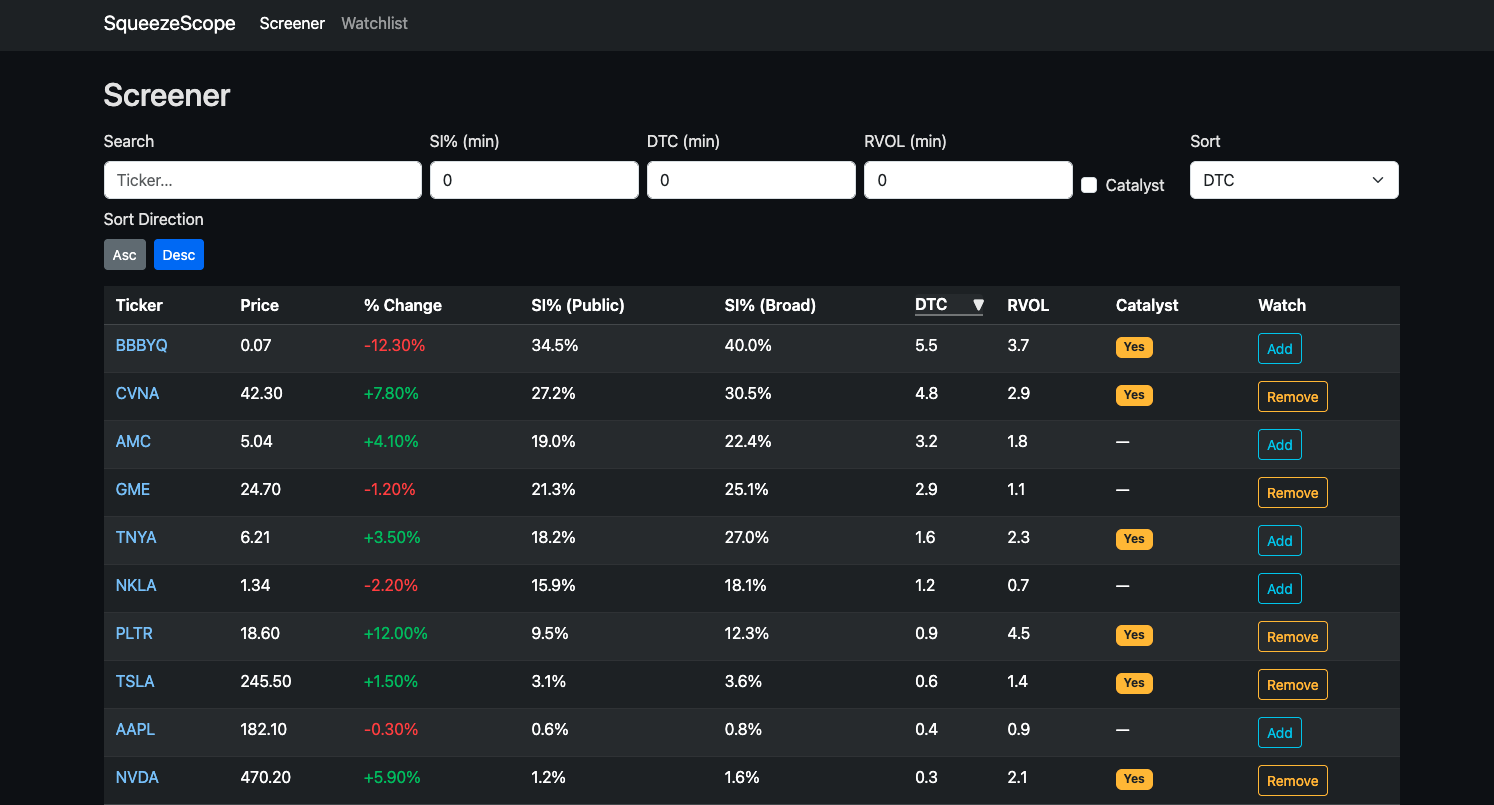
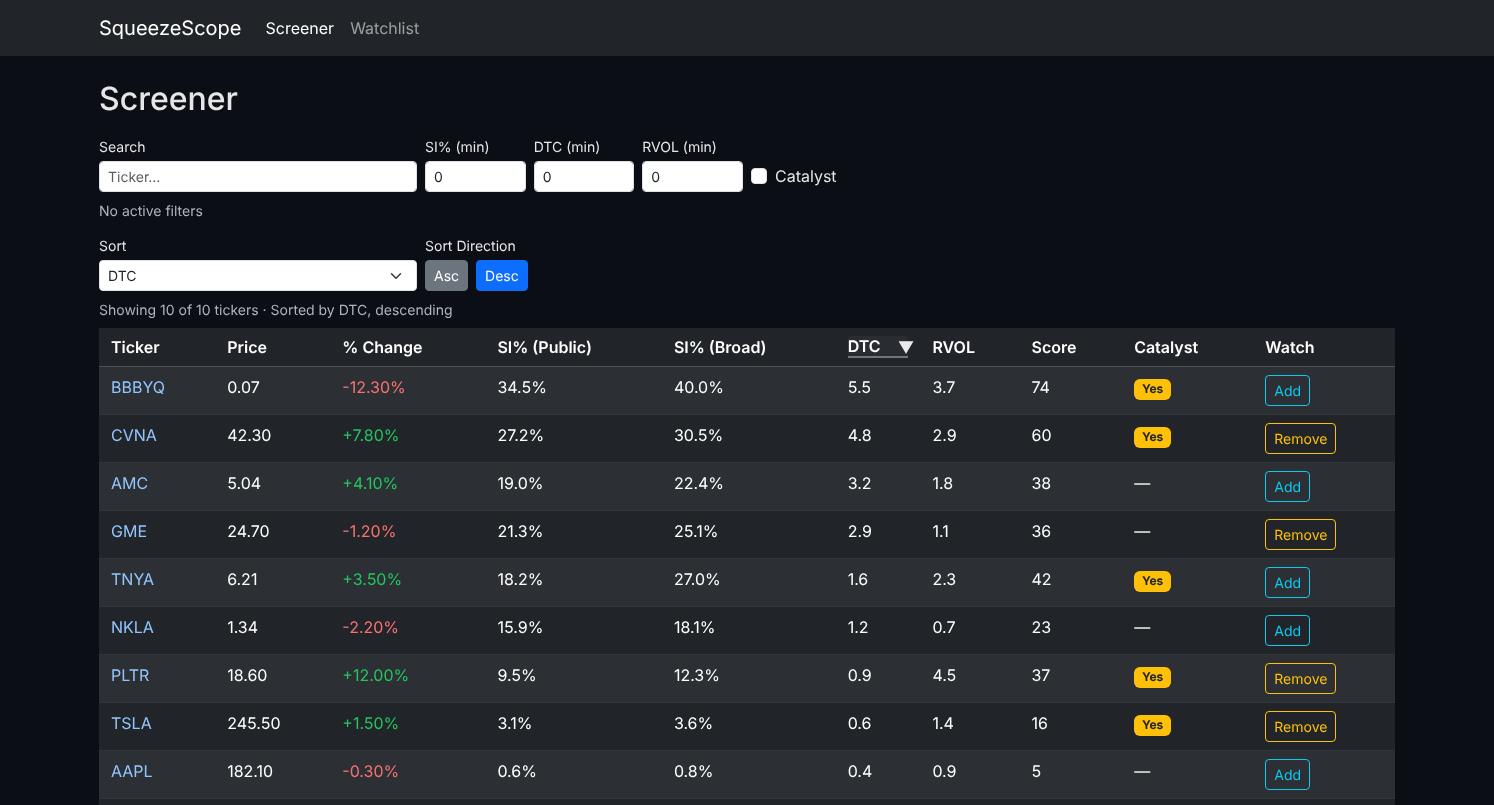
docs(readme): align README claims with the code (#62)
* docs(readme): align README claims with the code

Corrections, each checked against the source:
- SI filter applies to public float only (filter.ts uses siPublic);
  broad float is shown and sortable, not filterable.
- Table headers are sortable, not sticky (no position: sticky rule).
- Detail chart plots price only; fixture series are short, and only
  tickers without fixture metrics get a synthesized 60-day series.
- Detail RVOL is the 30-day value.
- URL sync covers sort/dir too and falls back to defaults on invalid
  params (#50).
- CI and tech stack list the current gates: lint, strict typecheck,
  unit tests, build, axe checks (#49, #51).
- Node requirement matches Vite 7 engines (^20.19 || >=22.12).
- Quality checks list the scripts that exist, note that `npm test` is
  watch mode, and the one-time Playwright browser install.
- Project structure adds pages/, components/, __tests__/, fixtures.ts,
  pageHeadings.test.tsx and e2e/.
- Screenshots regenerated from the production build at the original
  sizes (toolbar chips/summary from #48, contrast changes from #51).

Alternative rejected: making headers sticky to match the old claim
(feature change, out of scope for a docs fix).

Verified: every listed command run locally (lint, typecheck, test:run,
build, test:a11y, preview) succeeds.

Closes #54

Claude-Session: https://claude.ai/code/session_01LXBuSL63u9a8cxMp92HKF4

* docs(readme): state which detail metrics are fixed vs generated
[…]

diff --git a/README.md b/README.md
@@ -6,7 +6,7 @@
 
 SqueezeScope is a stock screener for identifying potential short squeeze candidates using common indicators such as short interest (SI%, public and broad float), days to cover (DTC), relative volume (RVOL), and catalyst flags. It also includes a demo "squeeze score" (a lightweight heuristic for UX demonstration, not a validated trading model). The app is built with production-minded frontend practices (typed domain models, URL-synced filters, and a centralized data client) and uses static fixtures in production while exercising an MSW-backed API layer in development.
 
-> Note: The live demo uses **static fixture data** for deterministic, repeatable behavior (no real-time market data).
+> Note: The live demo uses **static fixture data** (no real-time market data). Screener and watchlist rows are fixed; ticker detail metrics are fixed for TNYA, GME, AMC, CVNA and PLTR and randomly generated on each load for any other symbol.
 
 ---
 
@@ -19,7 +19,7 @@ SqueezeScope is a stock screener for identifying potential short squeeze candida
 - Watchlist persistence via `localStorage` with a small tested hook
 - Accessibility-minded UX (semantic landmarks, focus management, keyboard-friendly flows)
 - Resilient UX: error boundary, empty states, and a first-class 404 flow
-- CI quality gates via GitHub Actions (lint, tests, build)
+- CI quality gates via GitHub Actions (lint, strict typecheck, unit tests, build, axe accessibility checks)
 
 ---
 
@@ -29,14 +29,14 @@ SqueezeScope is a stock screener for identifying potential short squeeze candida
 
 - Filter by:
   - Ticker search
-  - Minimum short interest (public and broad float)
+  - Minimum short interest (public float; broad float is shown and sortable but not filterable)
   - Days to cover (short ratio)
   - Relative volume
   - Catalyst flag
 - Active filter chips: one-click removal per filter, plus "Clear all"
 - Summary strip: result count, current sort and direction, active filter count
-- Sortable table with sticky headers
-- Filter state is synced to the URL (shareable views)
+- Sortable table: click a column header to sort, click again to reverse
+- Filter and sort state is synced to the URL (shareable views); invalid or out-of-range params fall back to defaults
 
 ### Watchlist
 
@@ -49,9 +49,9 @@ SqueezeScope is a stock screener for identifying potential short squeeze candida
 - Summary strip with:
   - Short interest (public and broad float)
   - Days to cover (DTC)
-  - Relative volume (RVOL)
+  - Relative volume (30-day RVOL)
   - Squeeze score (demo)
-- 60-day price/volume chart via Recharts
+- Price chart via Recharts: fixture tickers (TNYA, GME, AMC, CVNA, PLTR) show a short fixture series; any other symbol gets randomly generated metrics and a 60-day series
 - Watchlist toggle integrated into the detail view
 
 ### Reliability UX
@@ -72,8 +72,8 @@ SqueezeScope is a stock screener for identifying potential short squeeze candida
 - **Charts:** Recharts 3
 - **Mock API (dev):** MSW 2
 - **HTTP client:** Axios
-- **Testing:** Vitest, Testing Library, jest-dom
-- **CI:** GitHub Actions (lint, tests, build on PRs)
+- **Testing:** Vitest, Testing Library, jest-dom; Playwright + axe-core for accessibility checks
+- **CI:** GitHub Actions (lint, typecheck, unit tests, build, axe checks on PRs and pushes to `main`)
 
 ---
 
@@ -100,7 +100,7 @@ SqueezeScope is a stock screener for identifying potential short squeeze candida
 
 ### Prerequisites
 
-- Node 20+ recommended
+- Node 20.19+, 22.12+ or 24+ (required by Vite 7 and jsdom 27; CI uses Node 22)
 - npm (bundled with Node)
 
 ### Install & run (local dev)
@@ -129,11 +129,13 @@ Vite will print the local URL in the terminal (default: `http://localhost:5173`)
 ### Quality checks
 
 ```bash
-npm test
-npm run lint
-npm run build
-npm run test:a11y   # axe checks in Chromium against the build (run after build)
-npm run preview
+npm run lint        # ESLint
+npm run typecheck   # strict tsc for app, tooling and e2e configs
+npm run test:run    # Vitest, single run (`npm test` starts watch mode)
+npm run build       # production build (static fixtures)
+npm run test:a11y   # axe checks in Chromium against the build (run after build;
+                    # first time: npx playwright install chromium)
+npm run preview     # serve the production build
 ```
 
 ---
@@ -146,23 +148,30 @@ src/
   app/
     router.tsx          # central route config
   components/
-    Layout/             # AppShell, NavBar
-    ui/                 # ErrorBoundary, shared UI helpers
+    Layout/             # AppShell (provides <main>), NavBar
+    ui/                 # ErrorBoundary, BackToScreenerButton
+  pages/                # HomePage, NotFound, ErrorFallback
   features/
-    tickers/            # Screener, detail page, query + filter + sort helpers
-    watchlists/         # watchlist hook, storage helpers, watchlist page
+    tickers/            # Screener + detail pages; filter, sort, score, URL-state helpers
+      components/       # ScreenerTable, SortHeader, ActiveFilterChips, ScreenerSummary
+      __tests__/        # unit and page tests
+    watchlists/         # watchlist hook, storage helpers, watchlist page (+ __tests__/)
   lib/
     api.ts              # Axios instance
     types.ts            # domain types (TickerRow, TickerMetrics, etc.)
   mocks/
     browser.ts          # MSW worker setup
     handlers.ts         # /api/tickers and /api/tickers/:symbol handlers
+    fixtures.ts         # typed fixtures + synthesized metrics for unknown tickers
     data/               # tickers.json, metrics.json (fixtures)
   styles/
     globals.css         # global theme + layout
   test/
     setup.ts            # Vitest + Testing Library setup
-    smoke.test.ts       # basic app smoke test
+    smoke.test.ts       # test runner smoke test
+    pageHeadings.test.tsx  # one h1 per page in loading/error states
+e2e/
+  a11y.spec.ts          # Playwright + axe-core checks against the production build
 ```
 
 ---
